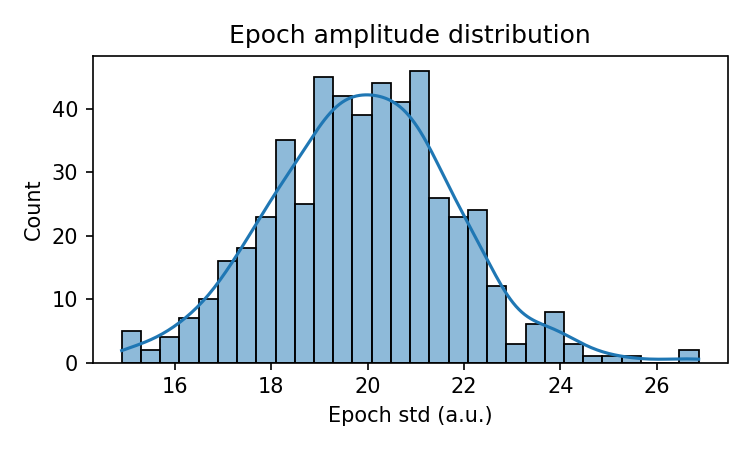
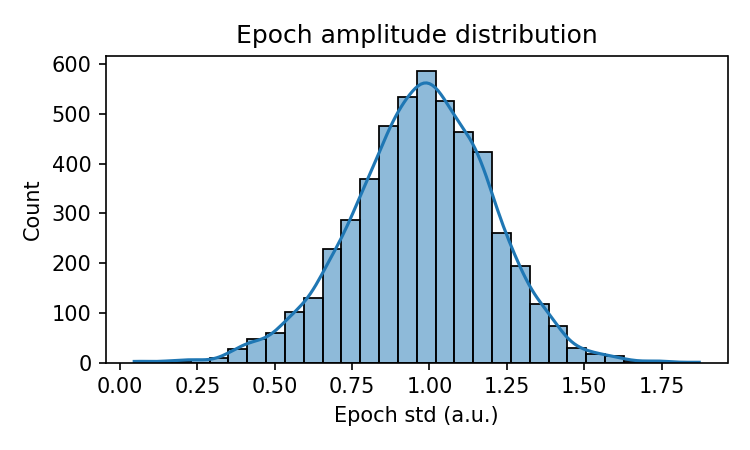
Add synthetic data exploration scripts and update summary outputs

diff --git a/scripts/synthetic_data_exploration/stage_analysis.py b/scripts/synthetic_data_exploration/stage_analysis.py
@@ -1,0 +1,253 @@
+"""Synthetic sleep data stage analysis plots.
+Generates selected plots:
+- EEG band power analysis by sleep stage (absolute + relative)
+- Detailed PSD with (optional) simple CI across epochs
+- Sleep stage transition matrices
+- Median sleep stage episode length
+- Raw EEG excerpt plot (microVolt y-axis)
+
+Usage (example):
+python -m scripts.synthetic_data_exploration.stage_analysis --epochs 2000 --seed 42
+"""
+from __future__ import annotations
+from pathlib import Path
+import json
+import argparse
+import numpy as np
+import matplotlib.pyplot as plt
+import seaborn as sns
+from dataclasses import dataclass
+
+from scr.synthetic.generator import SyntheticSleepGenerator, DEFAULT_CONFIG
+from .helpers import (
+    ensure_output_directory, SYN_SLEEP_STAGE_COLORS, STAGE_ORDER, compute_epoch_psd, band_power
+)
+
+sns.set_palette('husl')
+
+BANDS = [
+    (0.5, 4.0, 'Delta'),
+    (4.0, 8.0, 'Theta'),
+    (8.0, 12.0, 'Alpha'),
+    (12.0, 30.0, 'Beta'),
+    (30.0, 50.0, 'Gamma'),
+]
+
+@dataclass
+class EpochSpectralStats:
+    stage: str
+    band_powers: dict
+    total_power: float
+    freqs: np.ndarray
+    psd: np.ndarray
+
+
+def _compute_epoch_stats(eeg_epoch: np.ndarray, stage: str, fs: int) -> EpochSpectralStats:
+    freqs, psd = compute_epoch_psd(eeg_epoch, fs)
+    # restrict to 0.5-50
+    mask = (freqs >= 0.5) & (freqs <= 50)
+    freqs_m = freqs[mask]; psd_m = psd[mask]
+    band_p = {}
+    for lo, hi, name in BANDS:
+        band_p[name] = band_power(freqs_m, psd_m, lo, hi)
+    total = psd_m.sum()
+    return EpochSpectralStats(stage, band_p, total, freqs_m, psd_m)
+
+
+def _aggregate_by_stage(stats_list: list[EpochSpectralStats]):
+    by_stage = {}
+    for st in stats_list:
+        by_stage.setdefault(st.stage, []).append(st)
+    agg = {}
+    for stage, lst in by_stage.items():
+        bp_names = list(lst[0].band_powers.keys())
+        band_matrix = np.array([[s.band_powers[n] for n in bp_names] for s in lst])
+        totals = np.array([s.total_power for s in lst])
+        rel_matrix = band_matrix / totals[:, None]
+        agg[stage] = {
+            'abs_mean': band_matrix.mean(axis=0),
+            'abs_std': band_matrix.std(axis=0),
+            'rel_mean': rel_matrix.mean(axis=0),
+            'rel_std': rel_matrix.std(axis=0),
+            'band_names': bp_names,
+            'n_epochs': len(lst),
+            'psds': np.stack([s.psd for s in lst]),
+            'freqs': lst[0].freqs,
+            'episode_lengths': _episode_lengths([st.stage for st in lst]),
+        }
+    return agg
+
+
+def _episode_lengths(stage_sequence: list[str]):
+    lengths = []
+    if not stage_sequence:
+        return lengths
+    curr = stage_sequence[0]; count = 1
+    for s in stage_sequence[1:]:
+        if s == curr:
+            count += 1
+        else:
+            lengths.append((curr, count))
+            curr = s; count = 1
+    lengths.append((curr, count))
+    return lengths
+
+
+def plot_band_powers(agg, out_dir: Path):
+    stages = [s for s in STAGE_ORDER if s in agg]
+    band_names = agg[stages[0]]['band_names']
+    # Absolute
+    fig, ax = plt.subplots(figsize=(10,6))
+    width = 0.12
+    x = np.arange(len(band_names))
+    for i, stage in enumerate(stages):
+        m = agg[stage]['abs_mean']; std = agg[stage]['abs_std']
+        ax.bar(x + i*width, m, width, yerr=std, label=stage, color=SYN_SLEEP_STAGE_COLORS[stage], alpha=0.8)
+    ax.set_xticks(x + width*(len(stages)-1)/2)
+    ax.set_xticklabels(band_names)
+    ax.set_ylabel('Power (a.u.)')
+    ax.set_title('Absolute Band Power by Stage')
+    ax.legend()
+    ax.grid(alpha=0.3, axis='y')
+    fig.tight_layout(); fig.savefig(out_dir / 'band_power_absolute.png', dpi=300)
+
+    # Relative
+    fig, ax = plt.subplots(figsize=(10,6))
+    for i, stage in enumerate(stages):
+        m = agg[stage]['rel_mean']; std = agg[stage]['rel_std']
+        ax.bar(x + i*width, m*100, width, yerr=std*100, label=stage, color=SYN_SLEEP_STAGE_COLORS[stage], alpha=0.8)
+    ax.set_xticks(x + width*(len(stages)-1)/2)
+    ax.set_xticklabels(band_names)
+    ax.set_ylabel('Relative Power (%)')
+    ax.set_title('Relative Band Power by Stage')
+    ax.legend()
+    ax.grid(alpha=0.3, axis='y')
+    fig.tight_layout(); fig.savefig(out_dir / 'band_power_relative.png', dpi=300)
+
+
+def plot_detailed_psd(agg, out_dir: Path):
+    stages = [s for s in STAGE_ORDER if s in agg]
+    fig, axes = plt.subplots(2,2, figsize=(14,10))
+    axes = axes.ravel()
+    for idx, stage in enumerate(stages):
+        freqs = agg[stage]['freqs']; psds = agg[stage]['psds']
+        mean_psd = psds.mean(axis=0)
+        std_psd = psds.std(axis=0)
+        ax = axes[idx]
+        ax.plot(freqs, mean_psd, color=SYN_SLEEP_STAGE_COLORS[stage], label=stage)
+        ax.fill_between(freqs, np.maximum(mean_psd-std_psd,0), mean_psd+std_psd, color=SYN_SLEEP_STAGE_COLORS[stage], alpha=0.2)
+        ax.set_title(f'{stage} PSD (mean±1SD)')
+        ax.set_xlabel('Hz'); ax.set_ylabel('PSD (a.u.)')
+        ax.grid(alpha=0.3)
+    fig.suptitle('Detailed Power Spectral Density by Stage (0.5-50 Hz)')
+    fig.tight_layout(rect=[0,0,1,0.97])
+    fig.savefig(out_dir / 'detailed_psd.png', dpi=300)
+
+
+def plot_transition_matrix(labels: np.ndarray, stages: list[str], out_dir: Path):
+    # labels already numeric sequence aligned with given stages order
+    stage_to_idx = {s:i for i,s in enumerate(stages)}
+    n = len(stages)
+    counts = np.zeros((n,n), dtype=int)
+    for a,b in zip(labels[:-1], labels[1:]):
+        counts[a,b] += 1
+    probs = counts / counts.sum(axis=1, keepdims=True).clip(min=1)
+    fig, ax = plt.subplots(figsize=(6,5))
+    im = ax.imshow(probs, cmap='Blues', vmin=0, vmax=probs.max())
+    ax.set_xticks(range(n)); ax.set_yticks(range(n))
+    ax.set_xticklabels(stages); ax.set_yticklabels(stages)
+    ax.set_xlabel('To'); ax.set_ylabel('From')
+    ax.set_title('Sleep Stage Transition Matrix')
+    for i in range(n):
+        for j in range(n):
+            ax.text(j,i,f'{probs[i,j]:.2f}', ha='center', va='center', color='white' if probs[i,j]>0.5 else 'black', fontsize=8)
+    fig.colorbar(im, ax=ax, shrink=0.75, label='Probability')
+    fig.tight_layout(); fig.savefig(out_dir / 'transition_matrix.png', dpi=300)
+
+
+def plot_episode_lengths(labels: np.ndarray, stages: list[str], out_dir: Path, epoch_len_s: int):
+    # compute consecutive runs
+    lengths = {s: [] for s in stages}
+    current = labels[0]; run = 1
+    for l in labels[1:]:
+        if l == current:
+            run += 1
+        else:
+            lengths[stages[current]].append(run)
+            current = l; run = 1
+    lengths[stages[current]].append(run)
+    medians = {s: np.median(lengths[s])*epoch_len_s for s in stages if lengths[s]}
+    fig, ax = plt.subplots(figsize=(8,5))
+    ax.bar(list(medians.keys()), list(medians.values()), color=[SYN_SLEEP_STAGE_COLORS[s] for s in medians.keys()])
+    ax.set_ylabel('Median Episode Length (s)')
+    ax.set_title('Median Sleep Stage Episode Length')
+    for x,y in medians.items():
+        ax.text(x,y+0.5,f'{y:.1f}s', ha='center', va='bottom')
+    ax.grid(axis='y', alpha=0.3)
+    fig.tight_layout(); fig.savefig(out_dir / 'median_episode_length.png', dpi=300)
+
+
+def plot_raw_eeg(eeg: np.ndarray, fs: int, stages: list[str], labels: np.ndarray, out_dir: Path, seconds: int = 40):
+    samples = seconds * fs
+    sig = eeg[:samples]
+    time = np.arange(samples)/fs
+    fig, ax = plt.subplots(figsize=(14,4))
+    ax.plot(time, sig, linewidth=0.8, color='black')
+    ax.set_xlabel('Time (s)'); ax.set_ylabel('Amplitude (µV)')
+    ax.set_title(f'Raw Synthetic EEG Excerpt ({seconds}s)')
+    # overlay stage boundaries
+    ep_samples = len(eeg)//len(labels)
+    for i, st in enumerate(labels):
+        start = i*ep_samples
+        if start/ fs > seconds: break
+        ax.axvspan(start/fs, min((start+ep_samples)/fs, seconds), color=SYN_SLEEP_STAGE_COLORS[stages[st]], alpha=0.05)
+    fig.tight_layout(); fig.savefig(out_dir / 'raw_eeg_excerpt.png', dpi=300)
+
+
+def main():
+    parser = argparse.ArgumentParser()
+    parser.add_argument('--epochs', type=int, default=1500)
+    parser.add_argument('--seed', type=int, default=42)
+    parser.add_argument('--output', type=str, default='results/synthetic_exploration')
+    parser.add_argument('--save-data', action='store_true')
+    args = parser.parse_args()
+
+    out_dir = ensure_output_directory(args.output)
+
+    gen = SyntheticSleepGenerator(DEFAULT_CONFIG, seed=args.seed)
+    data = gen.generate(epochs=args.epochs, save=args.save_data, prefix='synthetic_analysis')
+    eeg = data['eeg']  # shape (epochs, samples)
+    labels = data['labels']
+
+    fs = gen.sampling_rate
+    # Flatten into epoch list stats
+    stats = []
+    for ep_sig, lab in zip(eeg, labels):
+        stage = gen.stages[lab]
+        stats.append(_compute_epoch_stats(ep_sig, stage, fs))
+    agg = _aggregate_by_stage(stats)
+
+    # Plots
+    plot_band_powers(agg, out_dir)
+    plot_detailed_psd(agg, out_dir)
+    plot_transition_matrix(labels, gen.stages, out_dir)
+    plot_episode_lengths(labels, gen.stages, out_dir, gen.epoch_length_s)
+    # Raw EEG (use first epoch_length*some epochs) flatten
+    flat = eeg.reshape(-1)
+    plot_raw_eeg(flat, fs, gen.stages, labels, out_dir)
+
+    # Save summary JSON
+    summary = {}
+    for st, val in agg.items():
+        summary[st] = {
+            'abs_band_power_mean': {bn: float(m) for bn, m in zip(val['band_names'], val['abs_mean'])},
+            'rel_band_power_mean': {bn: float(m) for bn, m in zip(val['band_names'], val['rel_mean'])},
+            'n_epochs': val['n_epochs']
+        }
+    with open(out_dir / 'summary.json', 'w') as f:
+        json.dump(summary, f, indent=2)
+
+    print(f'Synthetic stage analysis complete. Results in {out_dir}')
+
+if __name__ == '__main__':
+    main()

diff --git a/scripts/synthetic_data_exploration/helpers.py b/scripts/synthetic_data_exploration/helpers.py
@@ -1,0 +1,39 @@
+"""Helpers tailored for synthetic data exploration.
+Reuse plotting colors and simple utility functions.
+"""
+from pathlib import Path
+import numpy as np
+import matplotlib.pyplot as plt
+import seaborn as sns
+
+plt.style.use('seaborn-v0_8')
+
+SYN_SLEEP_STAGE_COLORS = {
+    'AWAKE': '#FF6B6B',
+    'NREM': '#4ECDC4',
+    'REM': '#45B7D1',
+}
+STAGE_ORDER = ['AWAKE', 'NREM', 'REM']
+
+
+def ensure_output_directory(base: str = 'results/synthetic_exploration') -> Path:
+    p = Path(base)
+    p.mkdir(parents=True, exist_ok=True)
+    return p
+
+
+def compute_epoch_psd(epoch: np.ndarray, fs: int):
+    # Simple Welch replacement using FFT (single epoch)
+    n = len(epoch)
+    win = np.hanning(n)
+    spec = np.fft.rfft(epoch * win)
+    freqs = np.fft.rfftfreq(n, 1/fs)
+    psd = (np.abs(spec)**2) / (fs * np.sum(win**2))
+    return freqs, psd
+
+
+def band_power(freqs, psd, low, high):
+    mask = (freqs >= low) & (freqs < high)
+    if not mask.any():
+        return 0.0
+    return psd[mask].sum()

diff --git a/scripts/synthetic_data_exploration/__init__.py b/scripts/synthetic_data_exploration/__init__.py
@@ -1,0 +1,1 @@
+# Synthetic data exploration package
